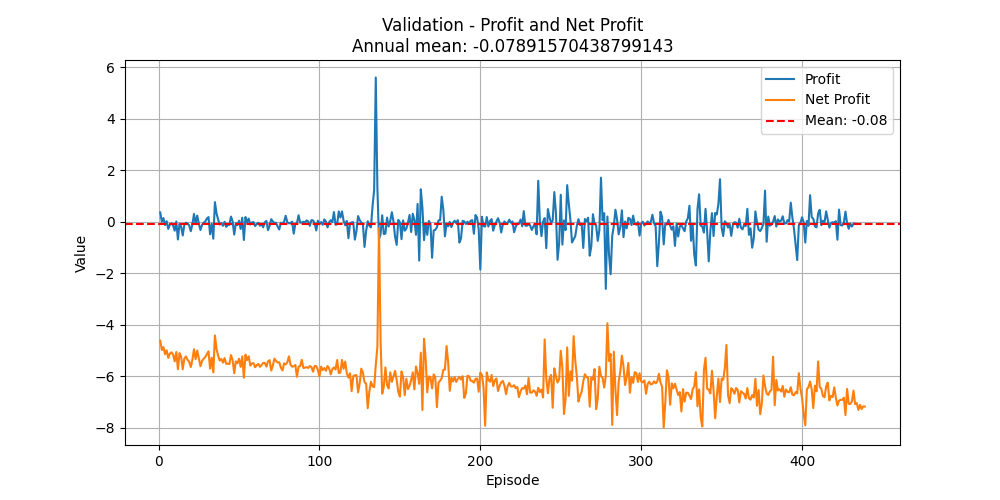
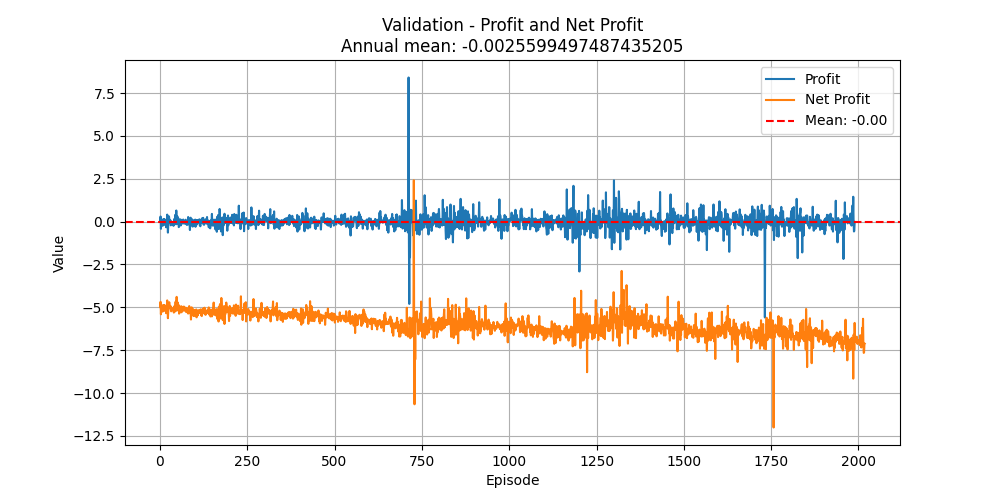
add plots

diff --git a/validate.py b/validate.py
@@ -4,6 +4,9 @@ import numpy as np
 import torch
 from lib.DQNAgent import DQNAgent
 from lib.IVVEnvironment import IVVEnvironment
+from empyrical import max_drawdown, sharpe_ratio, cagr, annual_volatility, value_at_risk, conditional_value_at_risk
+
+from lib.utils import plot_validation
 
 def seed_everything(seed: int):    
     random.seed(seed)
@@ -27,7 +30,7 @@ device = "cpu" if not torch.cuda.is_available() else 'cuda'
 validation_path = "lib/data/IVV_1m_validation.csv"
 validation_environment = IVVEnvironment(validation_path, seed=seed, device=device, window_size=window_size, trading_cost=1e-3)
 agent = DQNAgent(feature_size, window_size)
-agent.load_policy('./models/')
+agent.load_policy('./models/policy_6.27_4.38.pth')
 
 def perform_validation(current_episode, max_episodes=-1):
     validation_environment.close()
@@ -77,7 +80,17 @@ def perform_validation(current_episode, max_episodes=-1):
             net_profit = np.array(annual_net_profit)
             profit_loss = np.array(annual_profit_loss)
 
-            print("Happy new year")
+            print("\n Happy new year :)")
+ 
+            successRate = info["positive_trades"]/(info["actual_trades"]/2) if info["actual_trades"] != 0  else 0
+            print('Success Rate: ', successRate)
+
+            if len(net_profit) == 0:
+                netReturn = 0
+            else:
+                netReturn = sum(net_profit)/len(net_profit)
+            print('Net Return: ', netReturn)
+
             print(f"Net profit: {np.sum(net_profit)}")
             print(f"Profit: {np.sum(profit_loss)}")
             #Calculate Sharpe Ratio metric
@@ -106,3 +119,17 @@ def perform_validation(current_episode, max_episodes=-1):
     print(f"{np.mean(actual_trades)} trades/day")
     print(f'Buys by model {str(buy_actions)}/{str(actions_by_model)} Sells by model {str(sell_actions)}/{str(actions_by_model)}')
     print(f'>>> Validation finished! <<< \n')
+
+    # Save model 
+    print(f'>>> Saving model... <<< \n')
+    agent.save_policy(np.sum(profit_loss), np.mean(actual_trades))
+
+    if max_episodes == len(validation_environment.dataset.days):
+        plot_validation(total_profit_loss, total_net_profit, actual_trades)
+
+    agent.evaluation_mode(False)  # Reset to training mode if needed
+
+
+agent.evaluation_mode()
+perform_validation(1, len(validation_environment.dataset.days))
+agent.evaluation_mode(False)

diff --git a/main.py b/main.py
@@ -13,6 +13,7 @@ from empyrical import max_drawdown, sharpe_ratio, cagr, annual_volatility, value
 from lib.AgentNetworks import AgentCNNNetwork, AgentLSTMNetwork, AgentGRUNetwork
 from lib.DQNAgent import DQNAgent
 from lib.IVVEnvironment import IVVEnvironment
+from lib.utils import plot_reward, seed_everything
 
 device = "cpu" if not torch.cuda.is_available() else 'cuda'
 #Disable the warnings
@@ -21,55 +22,6 @@ warnings.filterwarnings('ignore')
 
 train_path = "lib/data/IVV_1m_training.csv"
 validation_path = "lib/data/IVV_1m_validation.csv"
-
-def seed_everything(seed: int):    
-    random.seed(seed)
-    os.environ['PYTHONHASHSEED'] = str(seed)
-    np.random.seed(seed)
-    torch.manual_seed(seed)
-    torch.cuda.manual_seed(seed)
-    torch.backends.cudnn.deterministic = True
-    torch.backends.cudnn.benchmark = True
-
-def plot_reward(rewards):
-    plt.figure(figsize=(10, 5))
-    plt.plot(range(1, len(rewards) + 1), rewards, linestyle='-')
-    plt.title('Training - Reward evolution')
-    plt.xlabel('Episode')
-    plt.ylabel('Reward')
-    plt.grid(True)
-
-    plt.savefig('reward.png')
-    plt.show()
-
-def plot_validation(profit, net_profit, trades):
-    profit_mean = np.mean(profit)
-    trades_mean = np.mean(trades)
-
-    # Profit
-    plt.figure(figsize=(10, 5))
-    plt.plot(range(1, len(profit) + 1), profit, label='Profit', linestyle='-')
-    plt.plot(range(1, len(net_profit) + 1), net_profit, label='Net Profit', linestyle='-')
-    plt.axhline(profit_mean, color='r', linestyle='--', label=f'Mean: {profit_mean:.2f}')
-    plt.title(f'Validation - Profit and Net Profit\nAnnual mean: {profit_mean}')
-    plt.xlabel('Episode')
-    plt.ylabel('Value')
-    plt.legend()
-    plt.grid(True)
-    plt.savefig('profit.png')
-    plt.show()
-
-    # Trades
-    plt.figure(figsize=(10, 5))
-    plt.plot(range(1, len(trades) + 1), trades, linestyle='-')
-    plt.axhline(trades_mean, color='r', linestyle='--', label=f'Mean: {trades_mean:.2f}')
-    plt.title(f'Validation - Number of trades per day\nAnnual mean: {trades_mean}')
-    plt.xlabel('Episode')
-    plt.ylabel('Number of trades')
-    plt.grid(True)
-    plt.legend()
-    plt.savefig('trades.png')
-    plt.show()
 
 # -------- Validation -----------
 

diff --git a/lib/IVVDataLoader.py b/lib/IVVDataLoader.py
@@ -10,6 +10,26 @@ class IVVDataset(Dataset):
         self.dataset.isnull().values.any()
         self.dataset=self.dataset.fillna(method='ffill')
 
+        self.open = self.dataset['Open'].astype('float')
+        self.close = self.dataset['Close'].astype('float')
+        self.high = self.dataset['High'].astype('float')
+        self.low = self.dataset['Low'].astype('float')
+        self.volume = self.dataset['Volume'].astype('float')
+
+        self.dataset['bar_hc'] = self.high - self.close
+        self.dataset['bar_ho'] = self.high - self.open
+        self.dataset['bar_hl'] = self.high - self.low
+        self.dataset['bar_cl'] = self.close - self.low
+        self.dataset['bar_ol'] = self.open - self.low
+        self.dataset['bar_co'] = self.close - self.open
+        self.dataset['bar_mov'] = self.dataset['Close'] - self.dataset['Close'].shift(1)
+
+        self.dataset['adj_open'] = self.dataset['Open'] / self.close
+        self.dataset['adj_high'] = self.dataset['High'] / self.close
+        self.dataset['adj_low'] = self.dataset['Low'] / self.close
+        self.dataset['adj_close'] = self.dataset['Close'] / self.close
+
+
         # Group data by day
         self.grouped_by_day = self.dataset.groupby(pd.Grouper(freq='D'))
 
